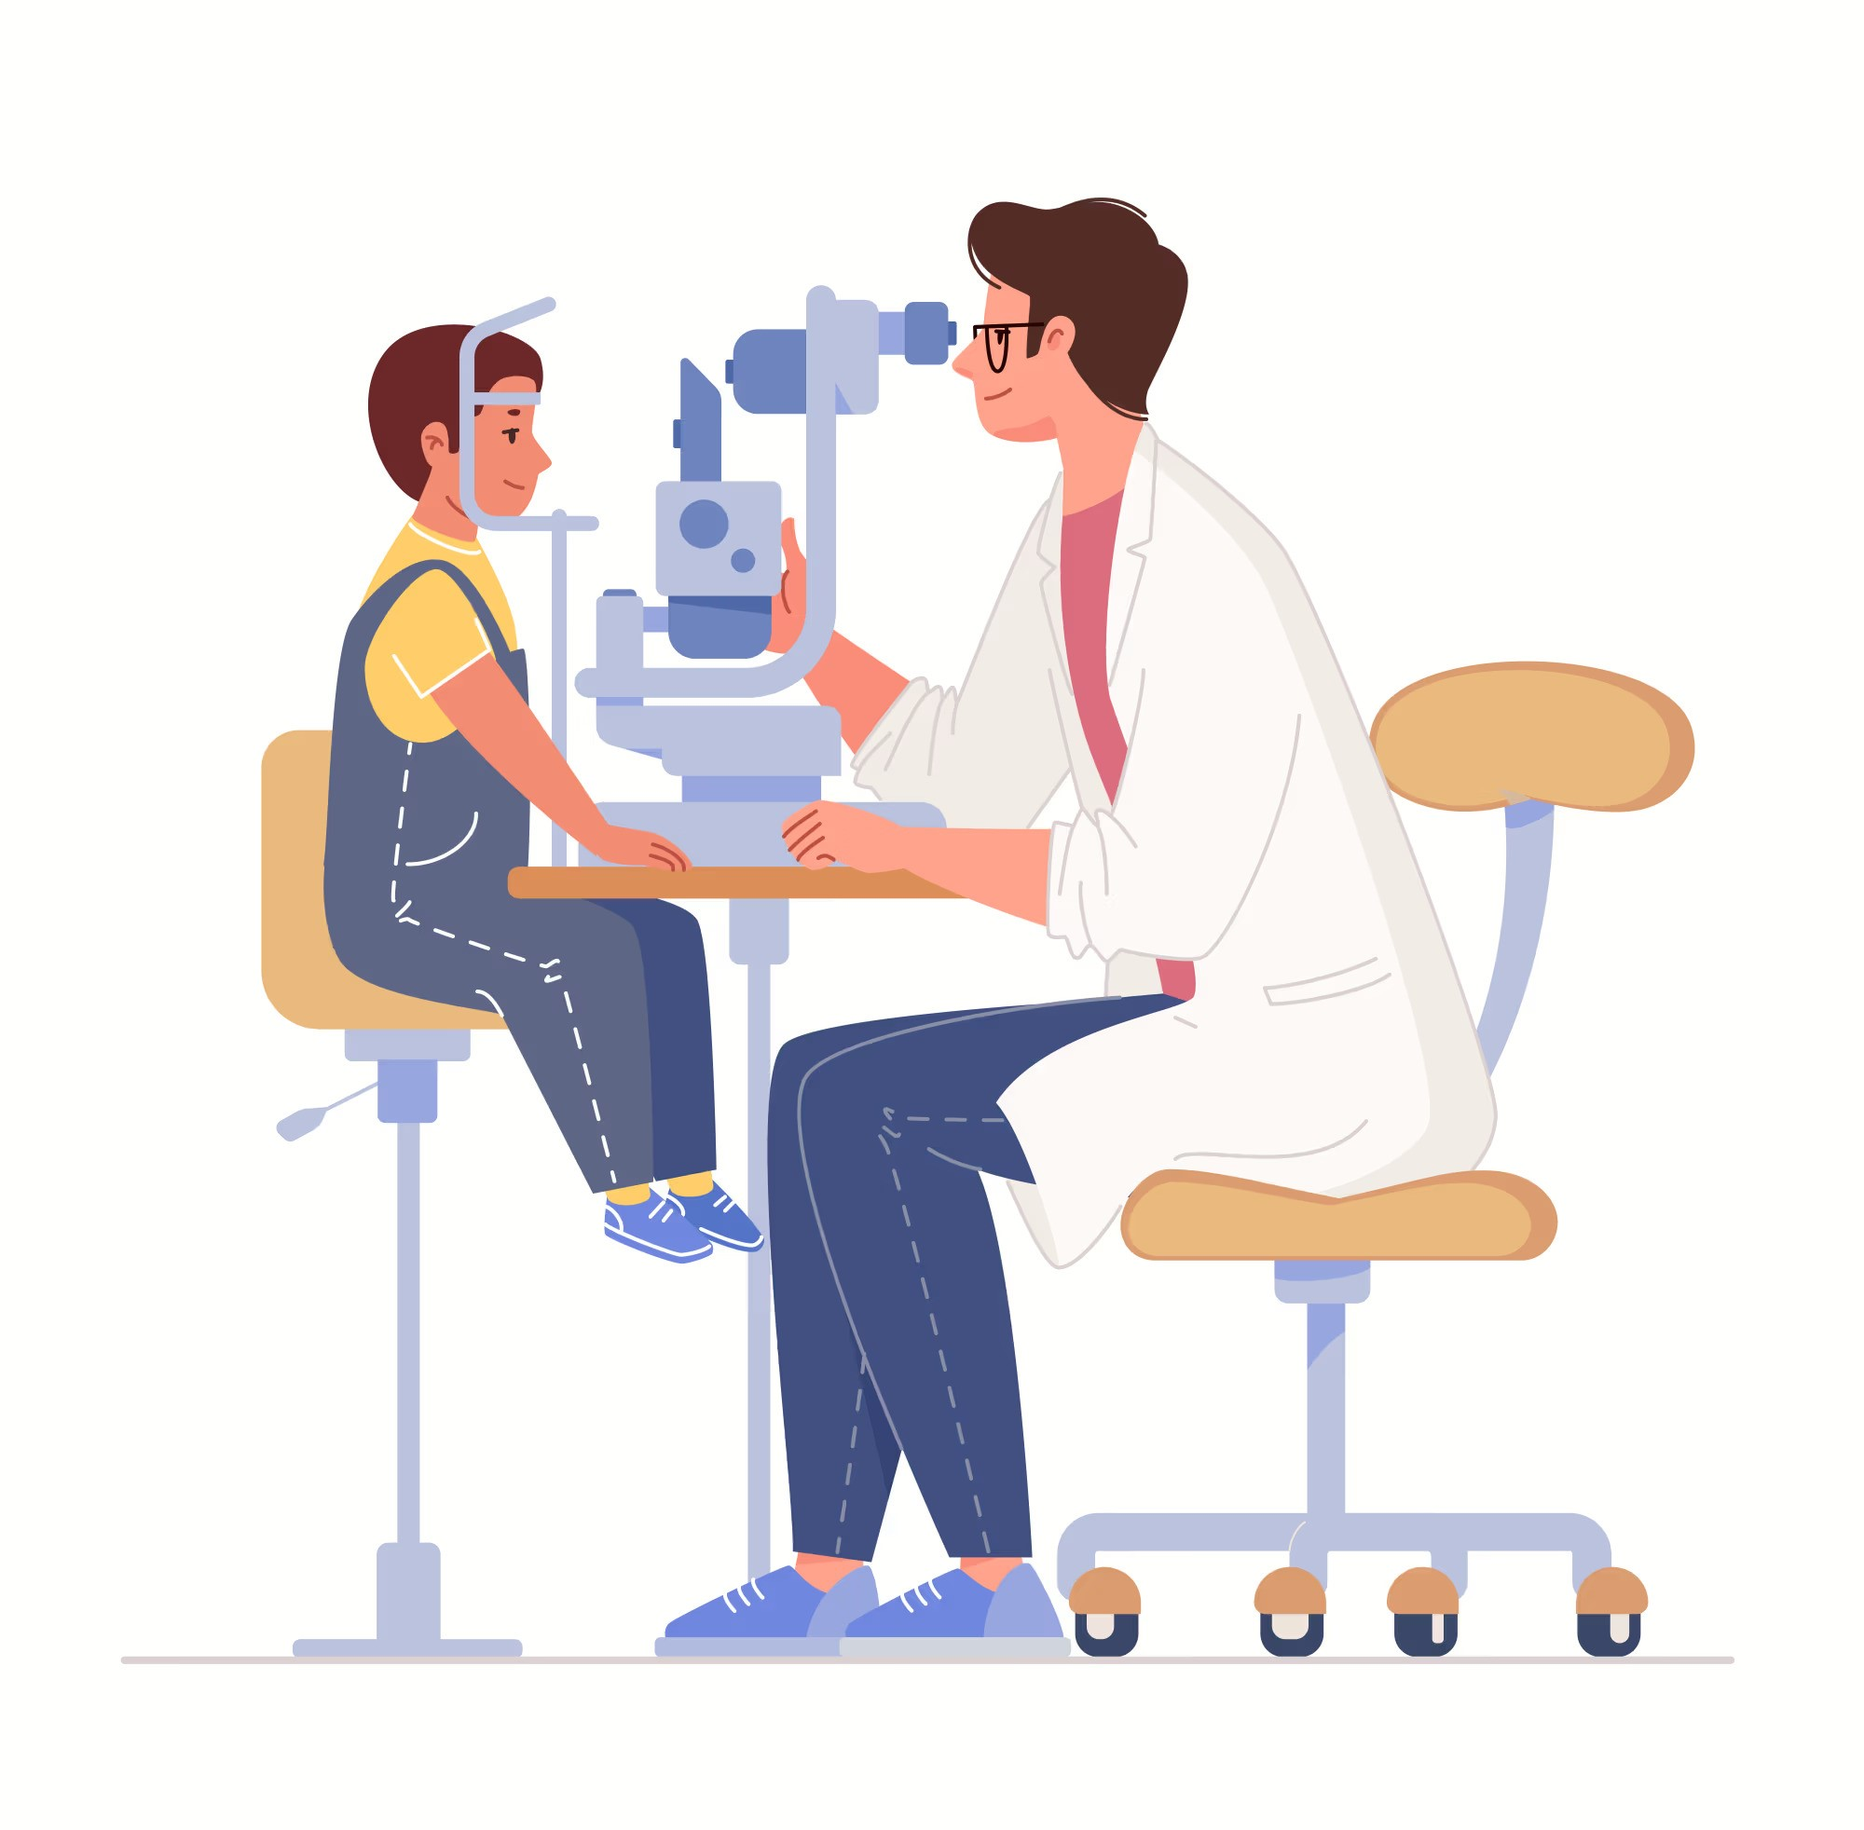
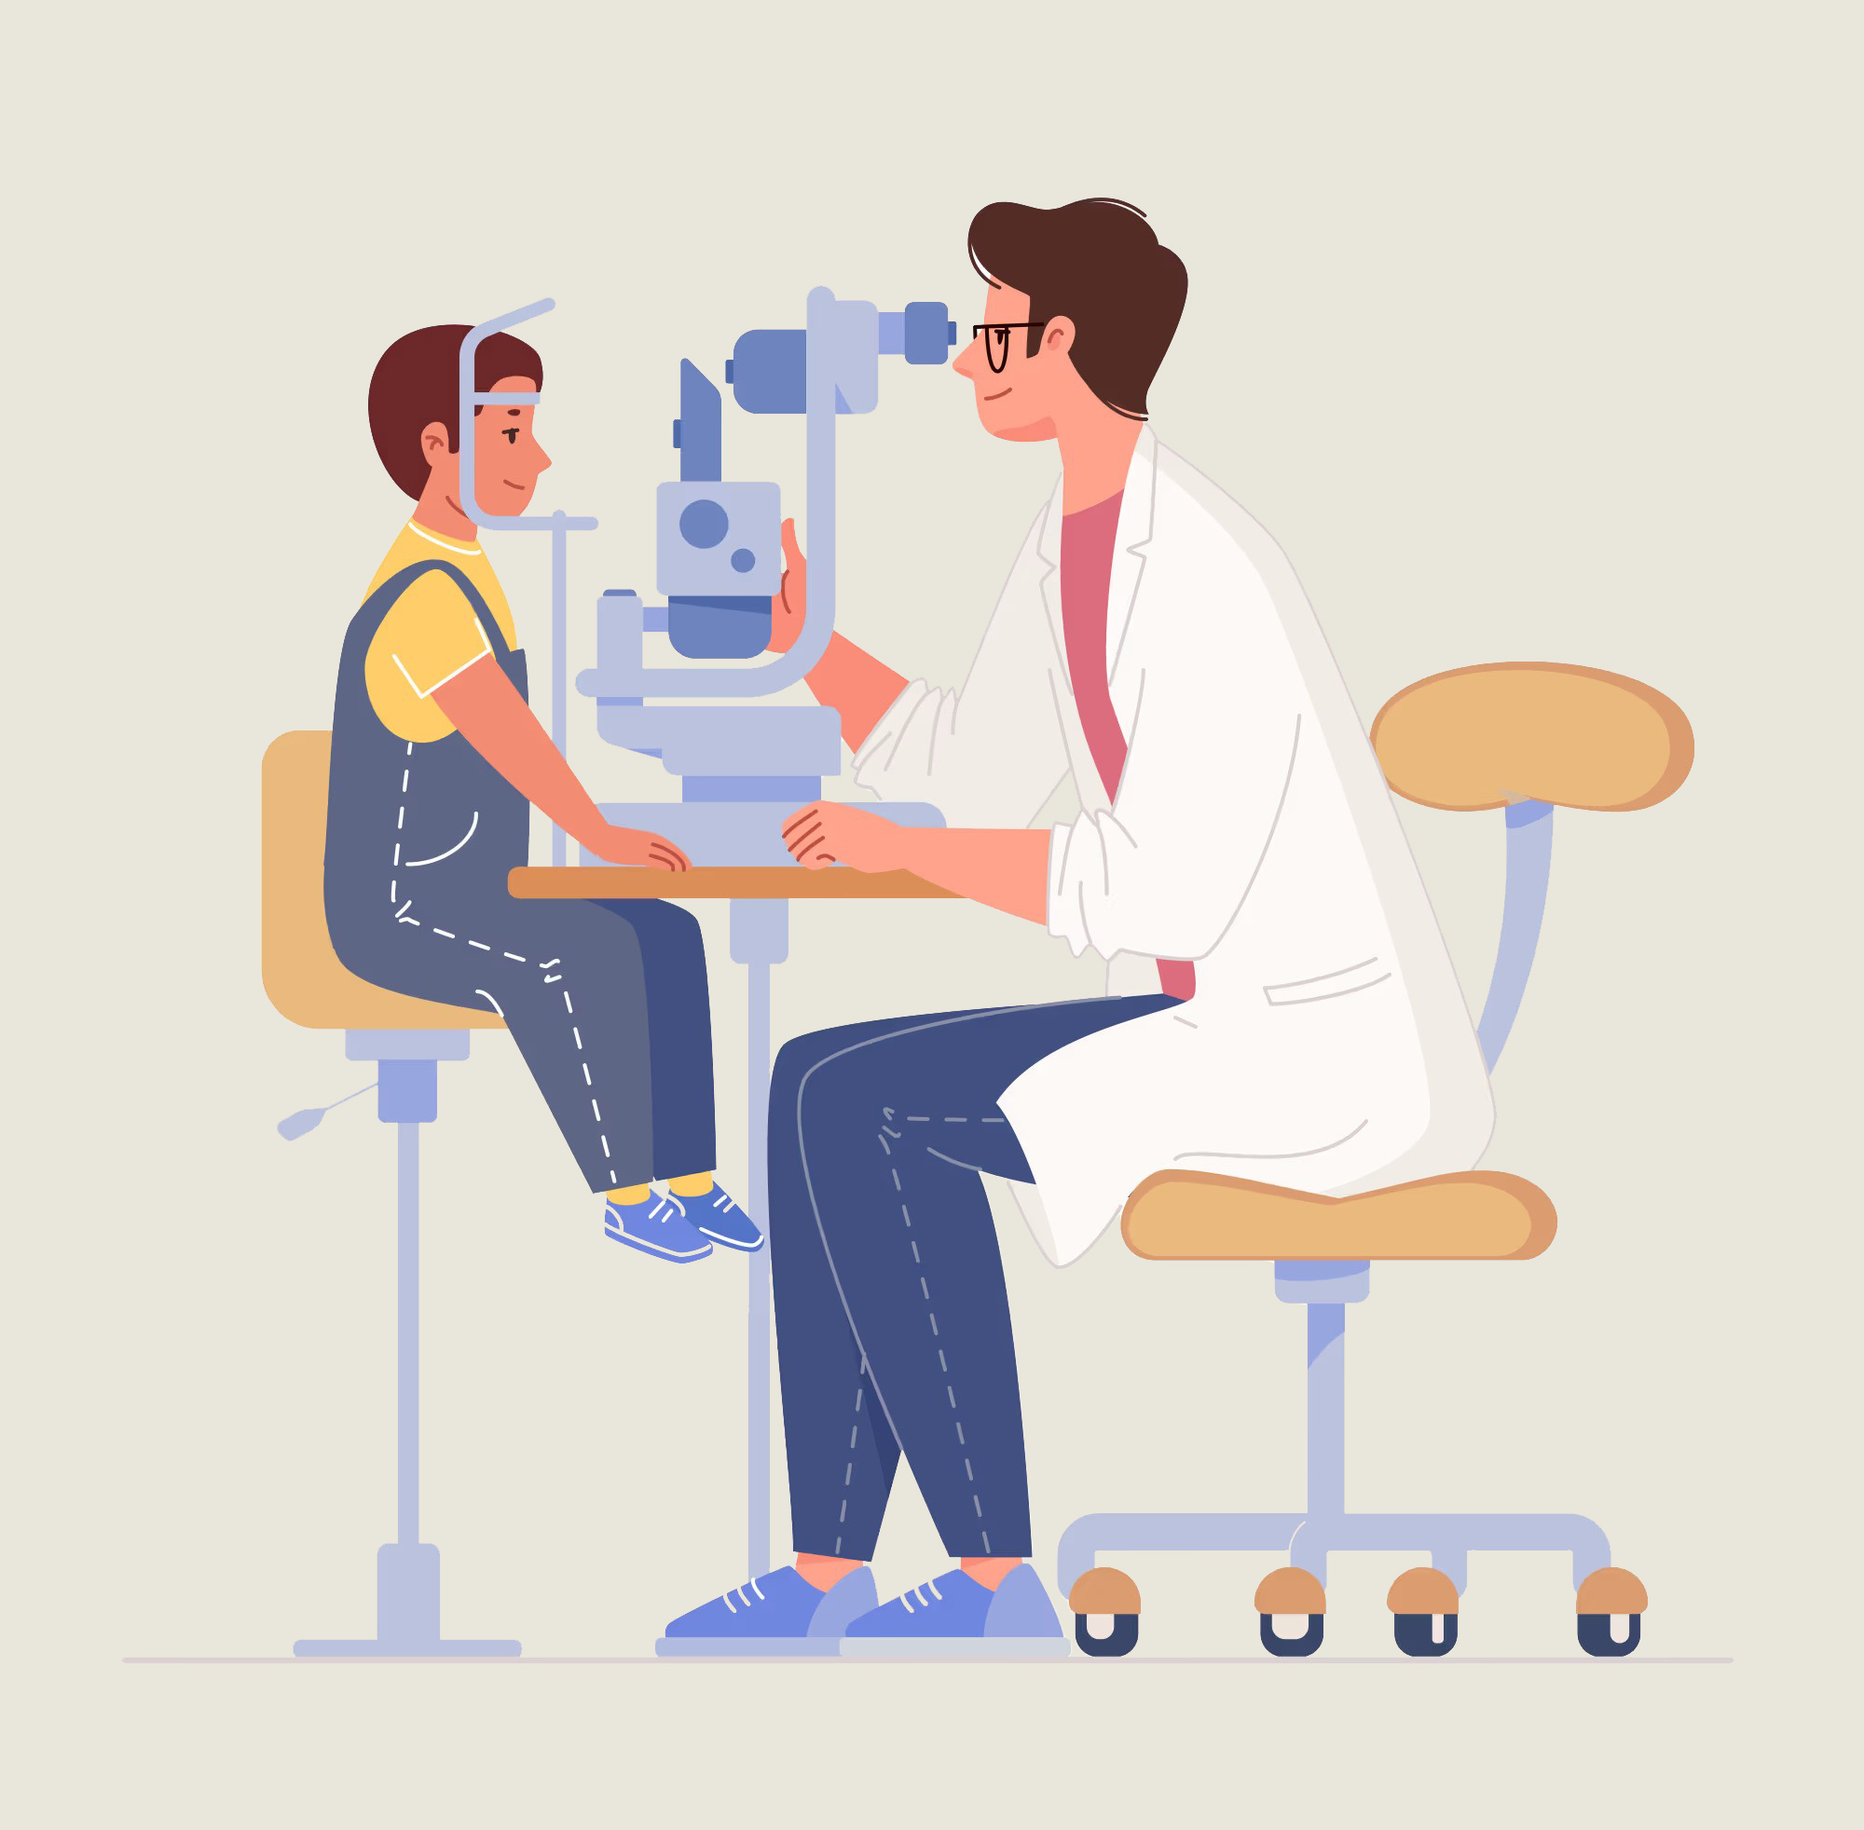
HomePage UI and Scheduling System Compete

diff --git a/lib/main.dart b/lib/main.dart
@@ -85,79 +85,105 @@ class Home extends StatelessWidget {
   @override
   Widget build(BuildContext context) {
     return Scaffold(
-      backgroundColor: Colors.white,
+      backgroundColor: Color(0xFFE9E6DB),
       body: Center(
         child: Column(
           mainAxisAlignment: MainAxisAlignment.center,
           children: [
-            Image.asset(
-              'assets/images/homepage.jpg', // Replace with your image path
-              height: 300, // Adjust the size as needed
-            ),
             const Text(
               'OpthaDoc',
               style: TextStyle(
-                color: Colors.black,
+                color: Color(0xFF163352),
                 fontWeight: FontWeight.bold,
-                fontSize: 50,
+                fontSize: 62,
               ),
             ),
             const Text(
-              'Opthalmology EMR',
+              'Opthalmology EMR System',
               style: TextStyle(
-                color: Colors.black,
+                color: Color(0xFF163352),
                 fontWeight: FontWeight.w500,
                 fontSize: 23,
               ),
             ),
-            const SizedBox(height: 100),
+            Image.asset(
+              'assets/images/homepage.jpg', // Replace with your image path
+              height: 350, // Adjust the size as needed
+            ),
+            const SizedBox(height: 50),
             Padding(
               padding: const EdgeInsets.all(20.0),
               child: Row(
                 mainAxisAlignment: MainAxisAlignment.spaceEvenly,
                 children: [
                   Expanded(
-                    child: ElevatedButton(
-                      onPressed: () {
-                        Navigator.pushNamed(context, '/campdashboard');
-                      },
-                      child: const Text('Camp'),
-                      style: ElevatedButton.styleFrom(
-                        foregroundColor: Colors.white,
-                        backgroundColor: Colors.black,
-                        padding: const EdgeInsets.symmetric(horizontal: 30, vertical: 15),
-                        shape: RoundedRectangleBorder(
-                          borderRadius: BorderRadius.circular(10),
+                    child: Column(
+                      children: [
+                        Container(
+                          padding: const EdgeInsets.all(10),
+                          decoration: BoxDecoration(
+                            color: Color(0xFF163352),
+                            shape: BoxShape.circle,
+                          ),
+                          child: IconButton(
+                            onPressed: () {
+                              Navigator.pushNamed(context, '/campdashboard');
+                            },
+                            icon: Icon(Icons.health_and_safety),
+                            color: Colors.white,
+                            iconSize: 40,
+                          ),
                         ),
-                        minimumSize: Size(150, 50), // Ensure both buttons have the same size
-                      ),
+                        const SizedBox(height: 8.0),
+                        const Text(
+                          'Camp',
+                          style: TextStyle(
+                            color: Color(0xFF163352),
+                            fontSize: 16,
+                            fontWeight: FontWeight.bold,
+                          ),
+                        ),
+                      ],
                     ),
                   ),
                   const SizedBox(width: 40),
                   Expanded(
-                    child: ElevatedButton(
-                      onPressed: () async {
-                        if (await isConnectedToInternet()) {
-                          Navigator.pushNamed(context, '/login');
-                        } else {
-                          ScaffoldMessenger.of(context).showSnackBar(
-                            SnackBar(
-                                content: Text('No internet connection'),
-                                backgroundColor: Colors.red,
-                            ),
-                          );
-                        }
-                      },
-                      child: const Text('Hospital'),
-                      style: ElevatedButton.styleFrom(
-                        foregroundColor: Colors.white,
-                        backgroundColor: Colors.black,
-                        padding: const EdgeInsets.symmetric(horizontal: 30, vertical: 15),
-                        shape: RoundedRectangleBorder(
-                          borderRadius: BorderRadius.circular(10),
+                    child: Column(
+                      children: [
+                        Container(
+                          padding: const EdgeInsets.all(10),
+                          decoration: BoxDecoration(
+                            color: Color(0xFF163352),
+                            shape: BoxShape.circle,
+                          ),
+                          child: IconButton(
+                            onPressed: () async {
+                              if (await isConnectedToInternet()) {
+                                Navigator.pushNamed(context, '/login');
+                              } else {
+                                ScaffoldMessenger.of(context).showSnackBar(
+                                  SnackBar(
+                                    content: Text('No internet connection'),
+                                    backgroundColor: Colors.red,
+                                  ),
+                                );
+                              }
+                            },
+                            icon: Icon(Icons.local_hospital),
+                            color: Colors.white,
+                            iconSize: 40,
+                          ),
                         ),
-                        minimumSize: Size(150, 50), // Ensure both buttons have the same size
-                      ),
+                        const SizedBox(height: 8.0),
+                        const Text(
+                          'Hospital',
+                          style: TextStyle(
+                            color: Color(0xFF163352),
+                            fontSize: 16,
+                            fontWeight: FontWeight.bold,
+                          ),
+                        ),
+                      ],
                     ),
                   ),
                 ],

diff --git a/lib/ui/screens/ScheduleAppointment.dart b/lib/ui/screens/ScheduleAppointment.dart
@@ -17,6 +17,7 @@ class _ScheduleAppointmentScreenState extends State<ScheduleAppointmentScreen> {
   String? selectedDoctorId;
 
   final TextEditingController _dateController = TextEditingController();
+  final TextEditingController _doctorController = TextEditingController();
 
   // Function to load available slots
   String getDayName(int weekday) {
@@ -33,6 +34,12 @@ class _ScheduleAppointmentScreenState extends State<ScheduleAppointmentScreen> {
 
     // Fetch the doctor's availability details
     DocumentSnapshot doctorDoc = await FirebaseFirestore.instance.collection('doctors').doc(doctorId).get();
+
+    print(doctorDoc['doctorId']);
+
+    DocumentSnapshot docName = await FirebaseFirestore.instance.collection('users').doc(doctorDoc['doctorId']).get();
+    String doctorName = docName['username'];
+    _doctorController.text = doctorName;
 
     String dayName = getDayName(selectedDate.weekday);
     Map<String, dynamic> workingHours = doctorDoc['workingHours'][dayName];
@@ -139,10 +146,6 @@ class _ScheduleAppointmentScreenState extends State<ScheduleAppointmentScreen> {
         padding: const EdgeInsets.only(left: 16.0, right: 16.0, bottom: 16.0),
         child: Column(
           children: [
-            // Container(
-            //     color: Color(0xFFE9E6DB),
-            //     child: SizedBox(height: 20)
-            // ),
             Container(
               padding: EdgeInsets.only(top: 20, bottom: 20),
               color: Color(0xFFE9E6DB),
@@ -207,6 +210,39 @@ class _ScheduleAppointmentScreenState extends State<ScheduleAppointmentScreen> {
                           _loadAvailableSlots();
                         }
                       },
+                    ),
+                  ),
+                ],
+              ),
+            ),
+            Container(
+              padding: EdgeInsets.only(top: 20, bottom: 20),
+              color: Color(0xFFE9E6DB),
+              child: Row(
+                children: [
+                  Icon(
+                    Icons.health_and_safety,
+                    color: Color(0xFF163352),
+                    size: 35,
+                  ),
+                  SizedBox(width: 20),
+                  Expanded(
+                    child: TextFormField(
+                      controller: _doctorController,
+                      cursorColor: Color(0xFF163352),
+                      readOnly: true,
+                      decoration: InputDecoration(
+                        labelText: 'Doctor',
+                        labelStyle: TextStyle(color: Color(0xFF163352)),
+                        focusedBorder: OutlineInputBorder(
+                          borderRadius: BorderRadius.circular(30),
+                          borderSide: BorderSide(color: Color(0xFF163352)),
+                        ),
+                        border: OutlineInputBorder(
+                          borderRadius: BorderRadius.circular(30),
+                          borderSide: BorderSide(color: Color(0xFF163352)),
+                        ),
+                      ),
                     ),
                   ),
                 ],
@@ -312,13 +348,28 @@ class _ScheduleAppointmentScreenState extends State<ScheduleAppointmentScreen> {
 
   Future<bool> _bookAppointment(DateTime start, DateTime end) async {
     try {
-      await FirebaseFirestore.instance.collection('appointments').add({
+      WriteBatch batch = FirebaseFirestore.instance.batch();
+
+      // Add the appointment
+      DocumentReference appointmentRef = FirebaseFirestore.instance.collection(
+          'appointments').doc();
+      batch.set(appointmentRef, {
         'patientId': widget.patientId,
         'doctorId': selectedDoctorId,
         'start': start,
         'end': end,
         'date': selectedDate.toIso8601String().split('T')[0],
       });
+
+      // Update the patient's assigned doctor
+      DocumentReference patientRef = FirebaseFirestore.instance.collection(
+          'patients').doc(widget.patientId);
+      batch.update(patientRef, {
+        'assignedDoctor': selectedDoctorId,
+      });
+
+      // Commit the batch
+      await batch.commit();
       return true;
     } catch (e) {
       print('Error booking appointment: $e');

diff --git a/lib/ui/screens/dashboard.dart b/lib/ui/screens/dashboard.dart
@@ -8,7 +8,6 @@ import 'package:optha_doc/ui/screens/User2.dart';
 import 'package:hive/hive.dart';
 import 'package:optha_doc/services/Hive/optometry_details.dart';
 import 'package:optha_doc/services/Hive/patients.dart';
-import 'package:optha_doc/ui/screens/appointment.dart';
 
 class Dashboard extends StatefulWidget {
   const Dashboard({super.key});
@@ -413,7 +412,7 @@ class _DashboardState extends State<Dashboard> {
         _buildDashboardButton(Icons.person_add, 'Registration', () {
           Navigator.pushNamed(context, '/registration');
         }),
-        _buildDashboardButton(Icons.schedule, 'Schedule', () {
+        _buildDashboardButton(Icons.event, 'Appointment', () {
           Navigator.push(
               context,
               MaterialPageRoute(builder: (context) => ScheduleAppointmentScreen(patientId: patientId,))
@@ -440,13 +439,6 @@ class _DashboardState extends State<Dashboard> {
             Navigator.push(
                 context,
                 MaterialPageRoute(builder: (context) => Records(routeName: 'EditRecords', patientId: patientId))
-            );
-          }),
-        if (role == 'Senior Doctor/ Consultant' || role == 'Admin')
-          _buildDashboardButton(Icons.event, 'Appointment', () {
-            Navigator.push(
-                context,
-                MaterialPageRoute(builder: (context) => Appointment(patientId: patientId))
             );
           }),
         if (role == 'Senior Doctor/ Consultant' || role == 'Admin')

diff --git a/lib/ui/screens/FindBestDoctor.dart b/lib/ui/screens/FindBestDoctor.dart
@@ -16,12 +16,16 @@ Future<String> findBestDoctor(String patientId, DateTime appointmentDate) async 
     // Check if the assigned doctor has free slots
     bool hasFreeSlots = await _hasFreeSlots(assignedDoctorId!, appointmentDate);
     if (hasFreeSlots) {
+      print('Best Doctor: $assignedDoctorId');
+
       return assignedDoctorId;
     }
   }
 
   // If new patient or assigned doctor has no free slots, find the doctor with least appointments
   String bestDoctorId = await _findDoctorWithLeastAppointments(appointmentDate);
+
+  print('Best Doctor: $bestDoctorId');
 
   return bestDoctorId;
 }
@@ -73,6 +77,5 @@ Future<String> _findDoctorWithLeastAppointments(DateTime date) async {
       bestDoctorId = doctorId;
     }
   }
-  print('Best Doctor: $bestDoctorId');
   return bestDoctorId;
 }

diff --git a/lib/ui/Unused/PatientSearch.dart b/lib/ui/Unused/PatientSearch.dart
@@ -3,7 +3,7 @@ import 'package:cloud_firestore/cloud_firestore.dart';
 import 'package:optha_doc/ui/screens/EditRecords.dart';
 import 'package:optha_doc/ui/screens/User2.dart';
 import 'package:optha_doc/ui/screens/ViewRecords.dart';
-import 'package:optha_doc/ui/screens/appointment.dart';
+import 'package:optha_doc/ui/Unused/appointment.dart';
 
 class SearchPatient extends StatefulWidget {
 
